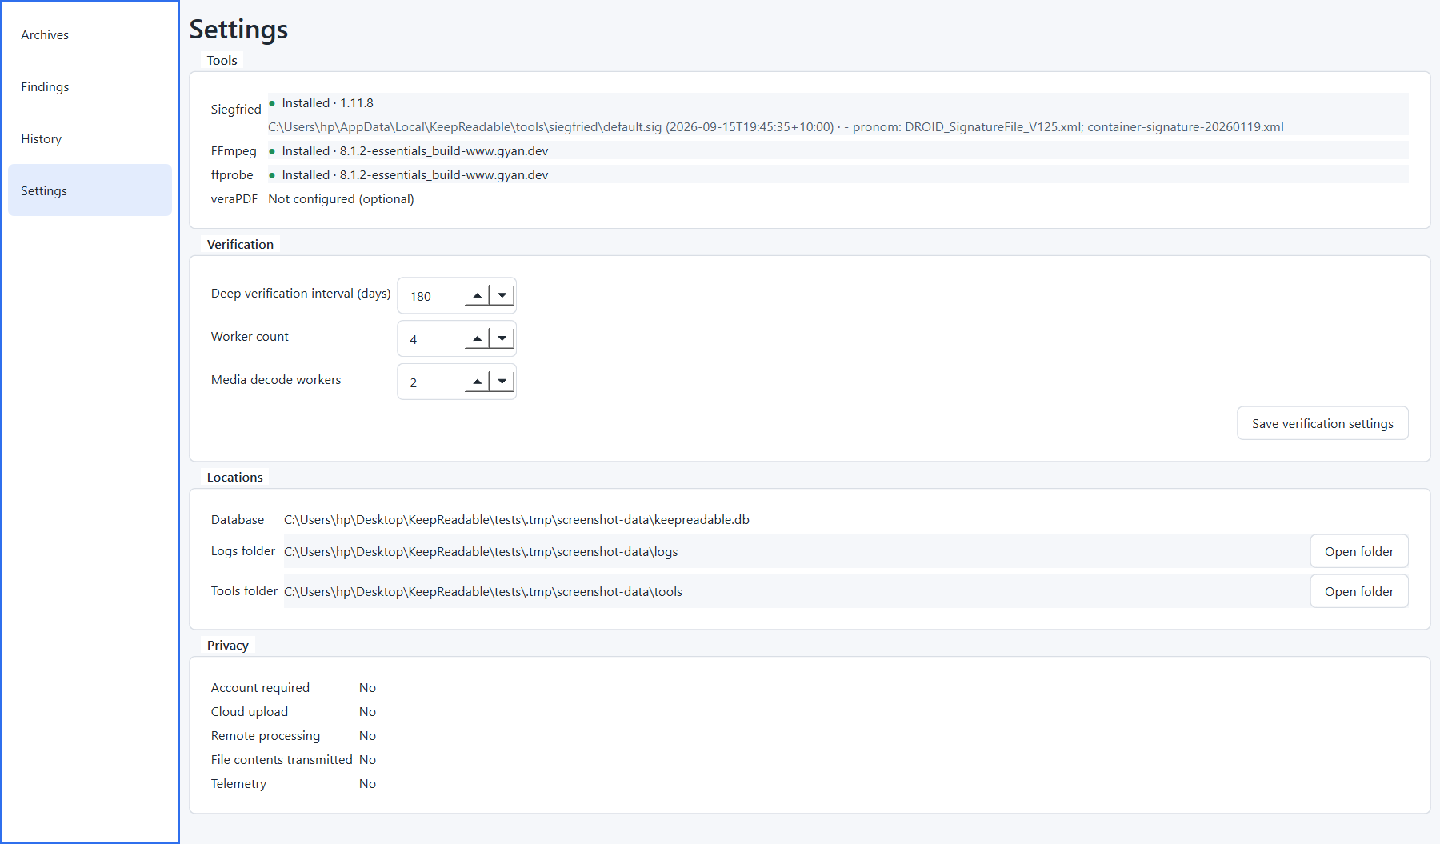
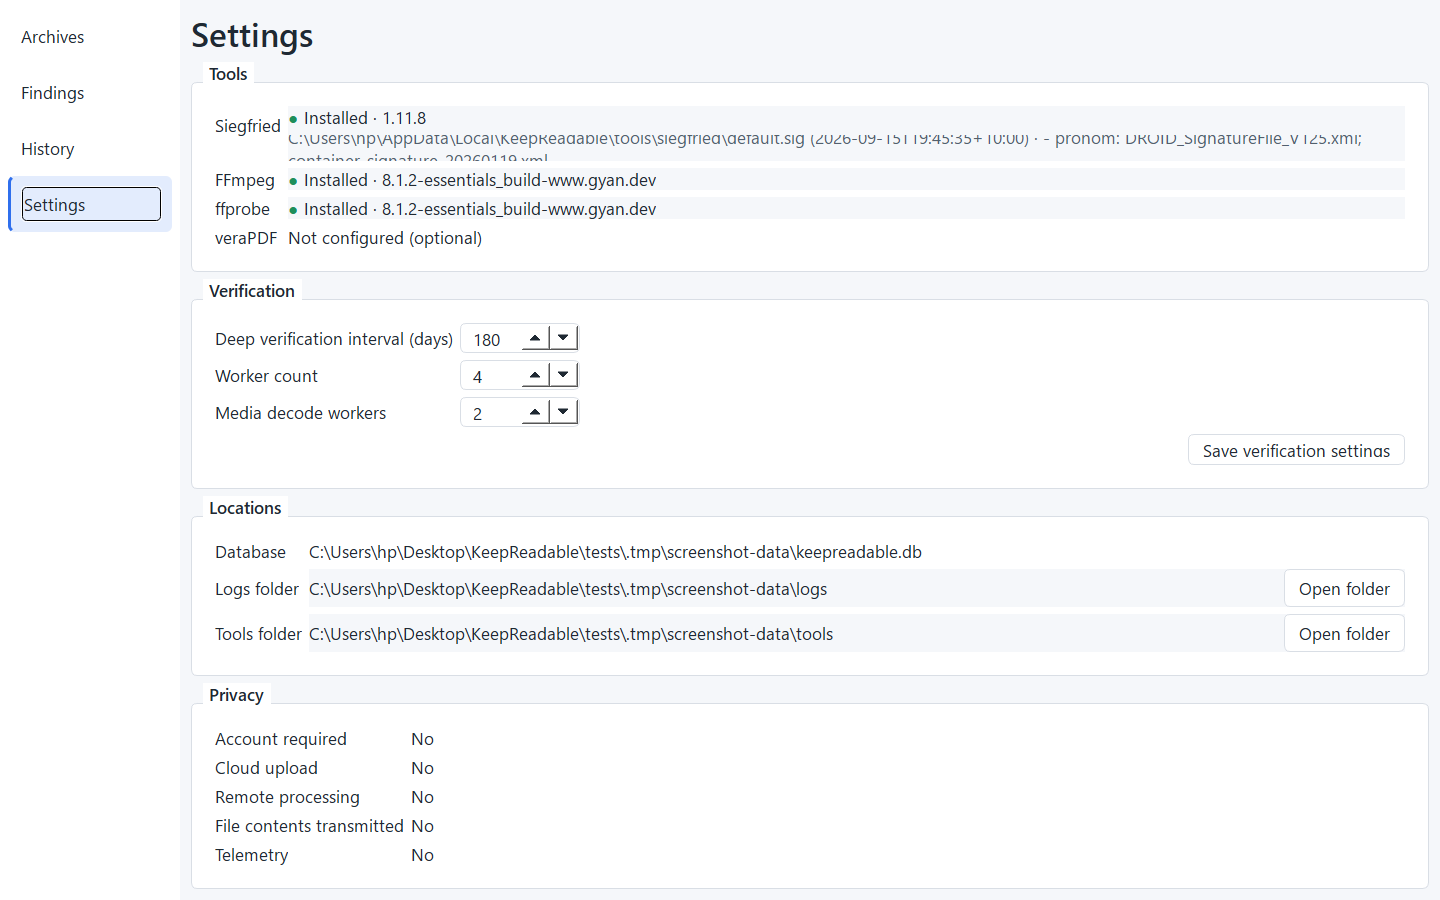
fix: finish workspace polish

diff --git a/scripts/capture_screenshots.py b/scripts/capture_screenshots.py
@@ -1,8 +1,13 @@
 import argparse
+import os
 import shutil
 import sys
 import tempfile
+import time
 from pathlib import Path
+
+os.environ["QT_ENABLE_HIGHDPI_SCALING"] = "0"
+os.environ["QT_SCALE_FACTOR"] = "1"
 
 ROOT = Path(__file__).resolve().parents[1]
 sys.path.insert(0, str(ROOT / "src"))
@@ -10,12 +15,15 @@ sys.path.insert(0, str(ROOT))
 sys.path.insert(0, str(ROOT / "scripts"))
 
 from create_demo_archive import create_demo_archive  # noqa: E402
+from PIL import Image  # noqa: E402
 from PySide6.QtCore import QEventLoop, QTimer  # noqa: E402
 from PySide6.QtWidgets import QApplication  # noqa: E402
 
 from keepreadable.application.container import AppContext  # noqa: E402
 from keepreadable.domain.enums import AuditMode  # noqa: E402
+from keepreadable.ui.dialogs.add_archive_dialog import AddArchiveDialog  # noqa: E402
 from keepreadable.ui.dialogs.file_detail_dialog import FileDetailDialog  # noqa: E402
+from keepreadable.ui.dialogs.resume_dialog import ResumeDialog  # noqa: E402
 from keepreadable.ui.main_window import MainWindow  # noqa: E402
 from keepreadable.ui.screens.archive_screen import ArchiveScreen  # noqa: E402
 from keepreadable.ui.theme import apply_theme  # noqa: E402
@@ -28,10 +36,13 @@ def pause(milliseconds: int) -> None:
 
 
 def save_widget(widget: object, path: Path) -> None:
-    image = widget.grab().toImage()
-    if image.width() > 1440:
-        image = image.scaledToWidth(1440)
-    image.save(str(path), "PNG")
+    pixmap = widget.grab()
+    pixmap.save(str(path), "PNG")
+    if path.stat().st_size > 400 * 1024:
+        with Image.open(path) as image:
+            image.convert("P", palette=Image.Palette.ADAPTIVE, colors=256).save(
+                path, format="PNG", optimize=True
+            )
 
 
 def capture(out: Path, data_dir: Path) -> list[Path]:
@@ -85,6 +96,20 @@ def capture(out: Path, data_dir: Path) -> list[Path]:
     pause(200)
     grab("file_detail.png", dialog)
     dialog.close()
+    add_dialog = AddArchiveDialog(context.archive_service, window)
+    add_dialog.location_edit.setText(str(archive_root))
+    add_dialog.name_edit.setText("Family Archive")
+    add_dialog.availability_label.setText("Available")
+    add_dialog.estimate_label.setText("Estimated files: 120")
+    add_dialog.show()
+    pause(150)
+    grab("add_archive.png", add_dialog)
+    add_dialog.close()
+    resume_dialog = ResumeDialog(1, window)
+    resume_dialog.show()
+    pause(150)
+    grab("resume_dialog.png", resume_dialog)
+    resume_dialog.close()
     welcome_data = data_dir.parent / "welcome-data"
     if welcome_data.exists():
         shutil.rmtree(welcome_data)
@@ -100,8 +125,19 @@ def capture(out: Path, data_dir: Path) -> list[Path]:
     assert isinstance(archive_screen, ArchiveScreen)
     archive_screen.tabs.setCurrentIndex(0)
     context.archive_service.estimate_file_count(archive_root, limit=5000, time_budget=5)
+    latest_progress: list[object | None] = [None]
+    window.controller.progress.connect(lambda progress: latest_progress.__setitem__(0, progress))
     window.controller.start(archive.id, AuditMode.DEEP, True)
-    pause(1500)
+    deadline = time.monotonic() + 60
+    while time.monotonic() < deadline:
+        pause(50)
+        progress = latest_progress[0]
+        if progress is None or progress.stage.value != "processing":
+            continue
+        total = progress.files_total_estimate
+        ratio = progress.files_processed / total if total else 0
+        if 0.3 <= ratio <= 0.7 and progress.current_path:
+            break
     grab("deep_audit_progress.png")
     if window.controller.is_running:
         loop = QEventLoop()

diff --git a/src/keepreadable/ui/screens/welcome_screen.py b/src/keepreadable/ui/screens/welcome_screen.py
@@ -1,5 +1,5 @@
 from PySide6.QtCore import Signal
-from PySide6.QtWidgets import QLabel, QPushButton, QVBoxLayout, QWidget
+from PySide6.QtWidgets import QHBoxLayout, QLabel, QPushButton, QVBoxLayout, QWidget
 
 from keepreadable.ui.dialogs.support_dialog import SupportDialog
 
@@ -9,33 +9,45 @@ class WelcomeScreen(QWidget):
 
     def __init__(self, parent: QWidget | None = None) -> None:
         super().__init__(parent)
-        layout = QVBoxLayout(self)
-        layout.setContentsMargins(80, 80, 80, 80)
-        layout.setSpacing(16)
-        layout.addStretch()
+        content = QWidget()
+        content.setMaximumWidth(680)
+        content_layout = QVBoxLayout(content)
+        content_layout.setSpacing(16)
         heading = QLabel("Understand the health of your digital archive")
         heading.setProperty("heading", True)
         heading.setWordWrap(True)
-        layout.addWidget(heading)
+        content_layout.addWidget(heading)
         for text in (
             "KeepReadable identifies formats and checks file structure.",
             "Deep Audit adds checksum and format-aware readability evidence.",
             "Original files are never modified, moved, renamed, or deleted.",
         ):
             label = QLabel(text)
+            label.setStyleSheet("font-size: 11pt")
             label.setWordWrap(True)
-            layout.addWidget(label)
+            content_layout.addWidget(label)
         backup = QLabel("It does not replace backup. Keep your files backed up separately.")
-        backup.setProperty("muted", True)
+        backup.setStyleSheet("font-size: 11pt; font-weight: 600; color: #52606D")
         backup.setWordWrap(True)
-        layout.addWidget(backup)
+        content_layout.addWidget(backup)
+        buttons = QHBoxLayout()
         add = QPushButton("Add an Archive")
         add.setProperty("primary", True)
         add.setAccessibleName("Add an Archive")
         add.clicked.connect(self.addArchiveRequested)
-        layout.addWidget(add)
+        buttons.addWidget(add)
         learn = QPushButton("Learn what KeepReadable checks")
         learn.setAccessibleName("Learn what KeepReadable checks")
         learn.clicked.connect(lambda: SupportDialog(self).exec())
-        layout.addWidget(learn)
+        buttons.addWidget(learn)
+        buttons.addStretch()
+        content_layout.addLayout(buttons)
+        layout = QVBoxLayout(self)
+        layout.setContentsMargins(80, 80, 80, 80)
+        layout.addStretch()
+        row = QHBoxLayout()
+        row.addStretch()
+        row.addWidget(content)
+        row.addStretch()
+        layout.addLayout(row)
         layout.addStretch()

diff --git a/src/keepreadable/ui/screens/archive_screen.py b/src/keepreadable/ui/screens/archive_screen.py
@@ -127,7 +127,9 @@ class ArchiveScreen(QWidget):
             tiles.addWidget(tile, 0, index)
         layout.addLayout(tiles)
         self.health_pills: dict[HealthState, StatusPill] = {}
-        health_grid = QGridLayout()
+        health_widget = QWidget()
+        health_widget.setMaximumWidth(480)
+        health_grid = QGridLayout(health_widget)
         for row, health in enumerate(HealthState):
             pill = StatusPill()
             pill.set_health(health)
@@ -138,7 +140,7 @@ class ArchiveScreen(QWidget):
             count.setObjectName(f"health-{health.value}")
             health_grid.addWidget(count, row, 1)
         health_grid.setColumnStretch(0, 1)
-        layout.addLayout(health_grid)
+        layout.addWidget(health_widget)
         self.coverage_label = QLabel()
         self.coverage_label.setWordWrap(True)
         self.coverage_bar = QProgressBar()
@@ -254,6 +256,11 @@ class ArchiveScreen(QWidget):
             }[finding.severity.value]
             severity.set_status(finding.severity.value.title(), severity_colour)
             text = QPushButton(finding.title)
+            text.setFlat(True)
+            text.setStyleSheet(
+                "QPushButton { border: none; background: transparent; color: #1F2933; "
+                "text-align: left; font-weight: 600; padding: 4px; }"
+            )
             text.setAccessibleName(f"Open finding {finding.title}")
             text.clicked.connect(lambda _checked=False: self.tabs.setCurrentIndex(2))
             path = QLabel("Archive-level finding")

diff --git a/src/keepreadable/ui/table.py b/src/keepreadable/ui/table.py
@@ -5,6 +5,7 @@ from PySide6.QtWidgets import QHeaderView, QTableView
 
 
 def configure_table(table: QTableView, stretch_columns: Iterable[int] = ()) -> None:
+    stretch = set(stretch_columns)
     table.verticalHeader().setVisible(False)
     table.setAlternatingRowColors(True)
     table.setHorizontalScrollBarPolicy(Qt.ScrollBarPolicy.ScrollBarAlwaysOff)
@@ -12,11 +13,11 @@ def configure_table(table: QTableView, stretch_columns: Iterable[int] = ()) -> N
     table.setSelectionMode(QTableView.SelectionMode.SingleSelection)
     table.verticalHeader().setDefaultSectionSize(table.fontMetrics().height() + 12)
     header = table.horizontalHeader()
-    header.setStretchLastSection(True)
+    header.setStretchLastSection(not stretch)
     for column in range(table.model().columnCount() if table.model() else 0):
         mode = (
             QHeaderView.ResizeMode.Stretch
-            if column in stretch_columns
+            if column in stretch
             else QHeaderView.ResizeMode.ResizeToContents
         )
         header.setSectionResizeMode(column, mode)

diff --git a/src/keepreadable/ui/controller.py b/src/keepreadable/ui/controller.py
@@ -15,6 +15,8 @@ class AuditController(QObject):
         super().__init__()
         self.engine = engine
         self.worker: AuditWorker | None = None
+        self.current_mode: AuditMode | None = None
+        self.current_archive_id: int | None = None
 
     @property
     def is_running(self) -> bool:
@@ -23,6 +25,8 @@ class AuditController(QObject):
     def start(self, archive_id: int, mode: AuditMode, force: bool = False) -> bool:
         if self.is_running:
             return False
+        self.current_mode = mode
+        self.current_archive_id = archive_id
         self.worker = AuditWorker(
             self.engine,
             archive_id=archive_id,
@@ -37,6 +41,8 @@ class AuditController(QObject):
     def resume(self, run_id: int) -> bool:
         if self.is_running:
             return False
+        self.current_mode = None
+        self.current_archive_id = None
         self.worker = AuditWorker(self.engine, resume_run_id=run_id)
         self._connect_worker()
         self.runningChanged.emit(True)

diff --git a/src/keepreadable/ui/main_window.py b/src/keepreadable/ui/main_window.py
@@ -117,6 +117,9 @@ class MainWindow(QMainWindow):
             self.controller.start(archive.id, AuditMode.QUICK)
 
     def open_archive(self, archive_id: int) -> None:
+        self.sidebar.blockSignals(True)
+        self.sidebar.setCurrentRow(0)
+        self.sidebar.blockSignals(False)
         screen = ArchiveScreen(self.context, self.controller, archive_id)
         screen.removed.connect(self._archive_removed)
         self.stack.addWidget(screen)
@@ -127,8 +130,10 @@ class MainWindow(QMainWindow):
         self._create_archives_page()
 
     def _status_progress(self, progress: AuditProgress) -> None:
+        mode = self.controller.current_mode
+        mode_label = mode.value.title() if mode is not None else "Audit"
         self.statusBar().showMessage(
-            f"{progress.stage.value.title()} Audit running — "
+            f"{mode_label} Audit running — "
             f"{progress.files_processed:,} / {progress.files_total_estimate:,} files"
         )
 

diff --git a/src/keepreadable/ui/widgets/pill_delegate.py b/src/keepreadable/ui/widgets/pill_delegate.py
@@ -15,12 +15,16 @@ class PillDelegate(QStyledItemDelegate):
         text = str(index.data(Qt.ItemDataRole.DisplayRole) or "Unknown")
         lowered = text.casefold()
         colour = palette.UNKNOWN
-        if "healthy" in lowered or "passed" in lowered or "info" in lowered:
+        if "healthy" in lowered or "passed" in lowered:
             colour = palette.HEALTHY
-        elif "review" in lowered or "warning" in lowered or "medium" in lowered:
+        elif "medium" in lowered or "review" in lowered or "warning" in lowered:
             colour = palette.REVIEW
         elif "unreadable" in lowered or "failed" in lowered or "high" in lowered:
             colour = palette.UNREADABLE
+        elif "info" in lowered:
+            colour = "#4A5568"
+        elif "low" in lowered:
+            colour = palette.UNKNOWN
         painter.save()
         if option.state & QStyle.StateFlag.State_Selected:
             painter.fillRect(option.rect, QColor("#E3ECFD"))
